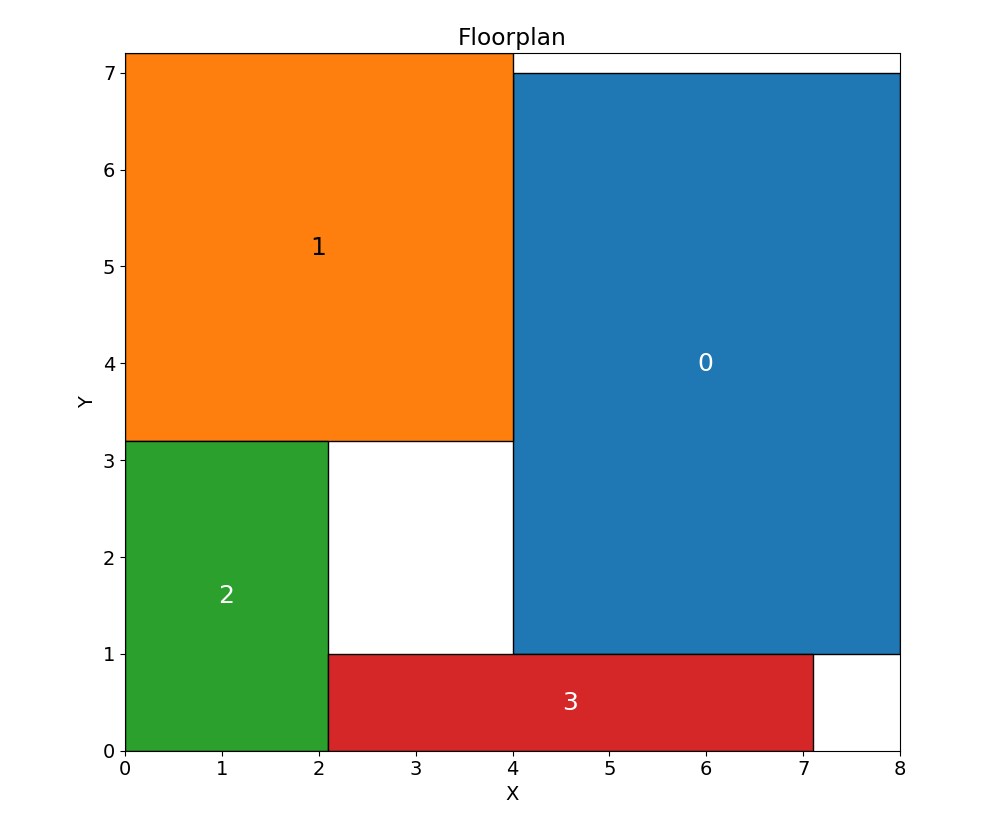
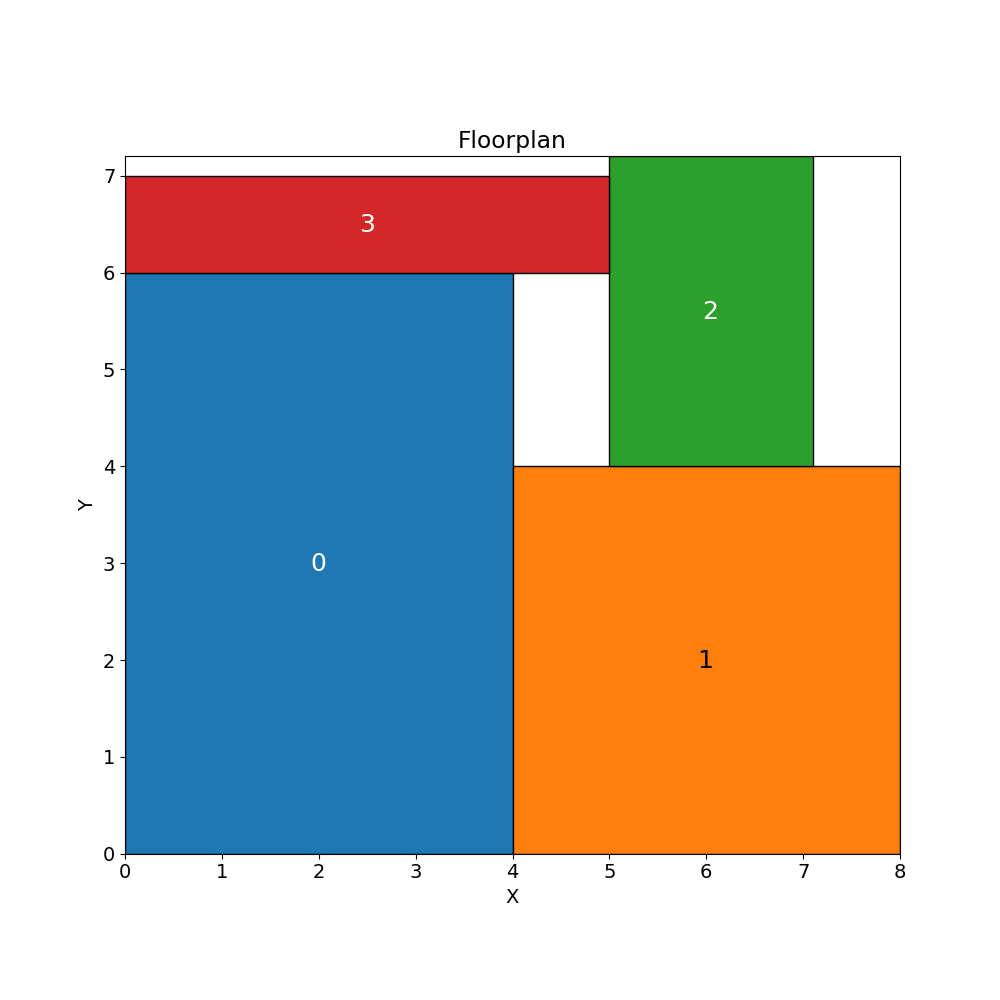
Solution width/height limit can be set (#17)
* Solution width/height limit can be set

* Deal with lint

* Add solver tests

* Ignore types

* Update figures

diff --git a/rectangle_packing_solver/solver.py b/rectangle_packing_solver/solver.py
@@ -17,7 +17,7 @@ import random
 import signal
 import sys
 from contextlib import redirect_stderr
-from typing import List, Tuple, Union
+from typing import List, Optional, Tuple, Union
 
 import simanneal
 
@@ -41,7 +41,14 @@ class Solver:
     def __init__(self) -> None:
         pass
 
-    def solve(self, problem: Problem, simanneal_minutes: float = 0.1, simanneal_steps: int = 100) -> Solution:
+    def solve(
+        self,
+        problem: Problem,
+        width_limit: Optional[float] = None,
+        height_limit: Optional[float] = None,
+        simanneal_minutes: float = 0.1,
+        simanneal_steps: int = 100,
+    ) -> Solution:
         if not isinstance(problem, Problem):
             raise TypeError("Invalid argument: 'problem' must be an instance of Problem.")
 
@@ -52,7 +59,7 @@ class Solver:
         init_state = init_gp + init_gn + init_rot
 
         # Get rid of output (stderr) from simanneal in this "with" block
-        rpp = RectanglePackingProblemAnnealer(state=init_state, problem=problem)
+        rpp = RectanglePackingProblemAnnealer(state=init_state, problem=problem, width_limit=width_limit, height_limit=height_limit)
         signal.signal(signal.SIGINT, exit_handler)
         with redirect_stderr(open(os.devnull, "w")):
             rpp.copy_strategy = "slice"  # We use "slice" since the state is a list
@@ -72,9 +79,15 @@ class RectanglePackingProblemAnnealer(simanneal.Annealer):
     Annealer for the rectangle packing problem.
     """
 
-    def __init__(self, state: List[int], problem: Problem) -> None:
+    def __init__(self, state: List[int], problem: Problem, width_limit: Optional[float] = None, height_limit: Optional[float] = None) -> None:
         self.seqpair = SequencePair()
         self.problem = problem
+        self.width_limit = sys.float_info.max
+        if width_limit:
+            self.width_limit = width_limit
+        self.height_limit = sys.float_info.max
+        if height_limit:
+            self.height_limit = height_limit
         super(RectanglePackingProblemAnnealer, self).__init__(state)
 
     def move(self) -> Union[int, float]:
@@ -83,20 +96,30 @@ class RectanglePackingProblemAnnealer(simanneal.Annealer):
         """
 
         initial_energy = self.energy()
+        initial_state = self.state[:]  # type: ignore
 
-        # Choose two indices and swap them
-        i, j = random.sample(range(self.problem.n), k=2)  # The first and second index
-        offset = random.randint(0, 1) * self.problem.n  # Choose G_{+} (=0) or G_{-} (=1)
+        while True:
+            # Choose two indices and swap them
+            i, j = random.sample(range(self.problem.n), k=2)  # The first and second index
+            offset = random.randint(0, 1) * self.problem.n  # Choose G_{+} (=0) or G_{-} (=1)
 
-        # Swap them (i != j always holds true)
-        self.state[i + offset], self.state[j + offset] = self.state[j + offset], self.state[i + offset]
+            # Swap them (i != j always holds true)
+            self.state[i + offset], self.state[j + offset] = initial_state[j + offset], initial_state[i + offset]  # type: ignore
 
-        # Random rotation
-        if self.problem.rectangles[i]["rotatable"]:
-            if random.randint(0, 1) == 1:
-                self.state[i + 2 * self.problem.n] += 1
+            # Random rotation
+            if self.problem.rectangles[i]["rotatable"]:
+                if random.randint(0, 1) == 1:
+                    self.state[i + 2 * self.problem.n] = initial_state[i + 2 * self.problem.n] + 1  # type: ignore
 
-        return self.energy() - initial_energy
+            # We adopt solution if the solution width/height limit is satisfied
+            energy = self.energy()
+            if energy < sys.float_info.max:
+                break
+
+            # Restore the state
+            self.state = initial_state[:]
+
+        return energy - initial_energy
 
     def energy(self) -> Union[int, float]:
         """
@@ -107,6 +130,12 @@ class RectanglePackingProblemAnnealer(simanneal.Annealer):
         gp, gn, rotations = self.retrieve_pairs(n=self.problem.n, state=self.state)
         seqpair = SequencePair(pair=(gp, gn))
         floorplan = seqpair.decode(problem=self.problem, rotations=rotations)
+
+        # Returns float max, if width/height limit is not satisfied
+        if floorplan.bounding_box[0] > self.width_limit:
+            return sys.float_info.max
+        if floorplan.bounding_box[1] > self.height_limit:
+            return sys.float_info.max
 
         return floorplan.area
 

diff --git a/tests/test_solver.py b/tests/test_solver.py
@@ -34,3 +34,18 @@ def test_solver(example_problem):  # noqa: F811
     assert optimal_0 or optimal_1 or optimal_2 or optimal_3
 
     assert solution.floorplan.area == 57.6
+    assert solution.floorplan.bounding_box[0] * solution.floorplan.bounding_box[1] == solution.floorplan.area
+
+
+def test_solver_with_width_limit(example_problem):  # noqa: F811
+    problem = rps.Problem(rectangles=example_problem)
+    solver = rps.Solver()
+    solution = solver.solve(problem=problem, width_limit=6.5)
+    assert solution.floorplan.bounding_box[0] <= 6.5
+
+
+def test_solver_with_height_limit(example_problem):  # noqa: F811
+    problem = rps.Problem(rectangles=example_problem)
+    solver = rps.Solver()
+    solution = solver.solve(problem=problem, height_limit=6.5)
+    assert solution.floorplan.bounding_box[1] <= 6.5

diff --git a/example/example_large.py b/example/example_large.py
@@ -27,8 +27,13 @@ def main():
     solution = rps.Solver().solve(problem=problem, simanneal_minutes=1.0, simanneal_steps=500)
     print("solution:", solution)
 
-    # Visualization (to floorplan.png)
+    # Visualization (to floorplan_large.png)
     rps.Visualizer().visualize(solution=solution, path="./figs/floorplan_large.png")
+
+    # Find a solution (with limit)
+    solution = rps.Solver().solve(problem=problem, simanneal_minutes=1.0, simanneal_steps=500, height_limit=50.0)
+    print("solution (with limit):", solution)
+    rps.Visualizer().visualize(solution=solution, path="./figs/floorplan_large_limit.png")
 
 
 if __name__ == "__main__":

diff --git a/example/example.py b/example/example.py
@@ -37,6 +37,12 @@ def main():
     # Visualization (to floorplan.png)
     rps.Visualizer().visualize(solution=solution, path="./figs/floorplan_example.png")
 
+    # [Other Usages]
+    # We can also give a solution width (and/or height) limit
+    solution = rps.Solver().solve(problem=problem, height_limit=6.5)
+    print("solution (with limit):", solution)
+    rps.Visualizer().visualize(solution=solution, path="./figs/floorplan_limit.png")
+
 
 if __name__ == "__main__":
     main()

diff --git a/README.md b/README.md
@@ -47,6 +47,12 @@ print("solution:", solution)
 
 # Visualization (to floorplan.png)
 rps.Visualizer().visualize(solution=solution, path="./floorplan.png")
+
+# [Other Usages]
+# We can also give a solution width (and/or height) limit
+solution = rps.Solver().solve(problem=problem, height_limit=6.5)
+print("solution (with limit):", solution)
+rps.Visualizer().visualize(solution=solution, path="./figs/floorplan_limit.png")
 ```
 
 ### Output:
@@ -54,6 +60,7 @@ rps.Visualizer().visualize(solution=solution, path="./floorplan.png")
 ```plaintext
 problem: Problem({'n': 4, 'rectangles': [{'id': 0, 'width': 4, 'height': 6, 'rotatable': False}, {'id': 1, 'width': 4, 'height': 4, 'rotatable': False}, {'id': 2, 'width': 2.1, 'height': 3.2, 'rotatable': False}, {'id': 3, 'width': 1, 'height': 5, 'rotatable': True}]})
 solution: Solution({'sequence_pair': SequencePair(([0, 1, 3, 2], [3, 0, 2, 1])), 'floorplan': Floorplan({'positions': [{'id': 0, 'x': 0, 'y': 1}, {'id': 1, 'x': 4, 'y': 3.2}, {'id': 2, 'x': 5.0, 'y': 0.0}, {'id': 3, 'x': 0, 'y': 0}], 'bounding_box': (8, 7.2), 'area': 57.6})})
+solution (with limit): Solution({'sequence_pair': SequencePair(([0, 1, 2, 3], [0, 3, 1, 2])), 'floorplan': Floorplan({'positions': [{'id': 0, 'x': 0, 'y': 0, 'width': 4, 'height': 6}, {'id': 1, 'x': 4, 'y': 1, 'width': 4, 'height': 4}, {'id': 2, 'x': 8.0, 'y': 1.0, 'width': 2.1, 'height': 3.2}, {'id': 3, 'x': 4, 'y': 0, 'width': 5, 'height': 1}], 'bounding_box': (10.1, 6), 'area': 60.599999999999994})})
 ```
 
 ### Floorplan (example):
@@ -62,7 +69,7 @@ solution: Solution({'sequence_pair': SequencePair(([0, 1, 3, 2], [3, 0, 2, 1])),
 
 ### Floorplan (larger example):
 
-![floorplan_large](https://raw.githubusercontent.com/kotarot/rectangle-packing-solver/main/figs/floorplan_large.png)
+![floorplan_large](https://raw.githubusercontent.com/kotarot/rectangle-packing-solver/main/figs/floorplan_large_limit.png)
 
 ## References
 
